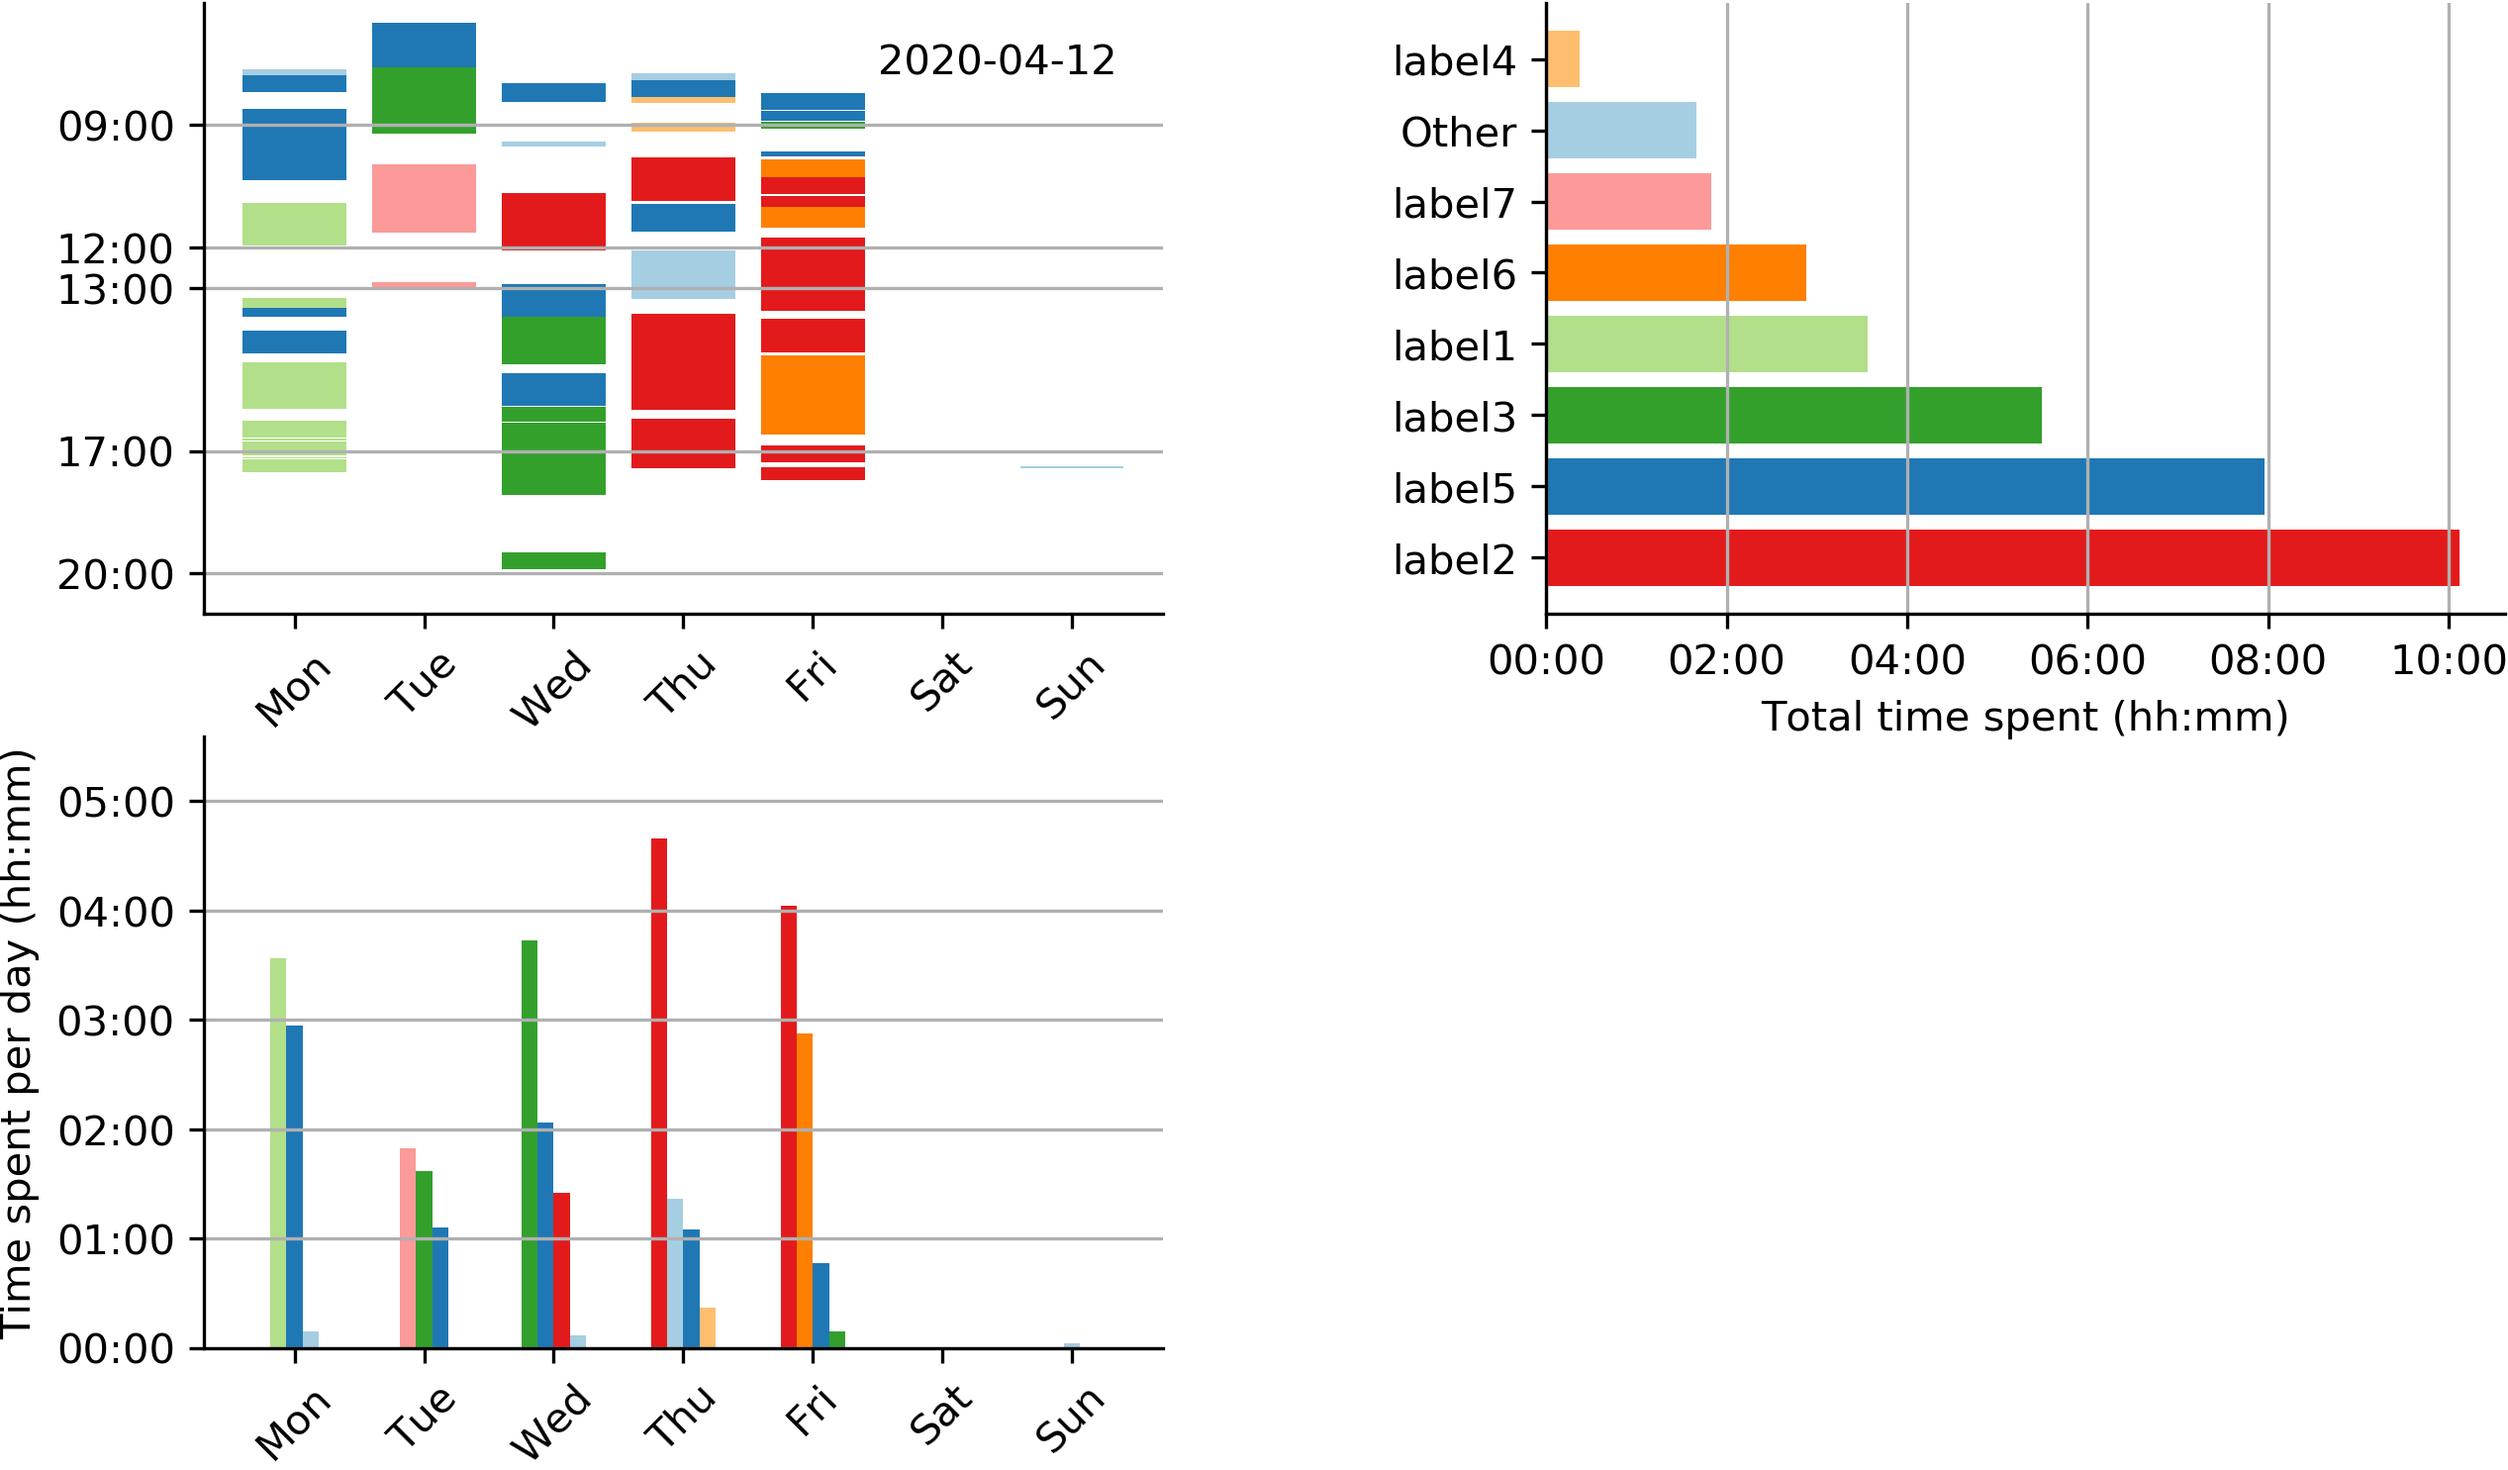
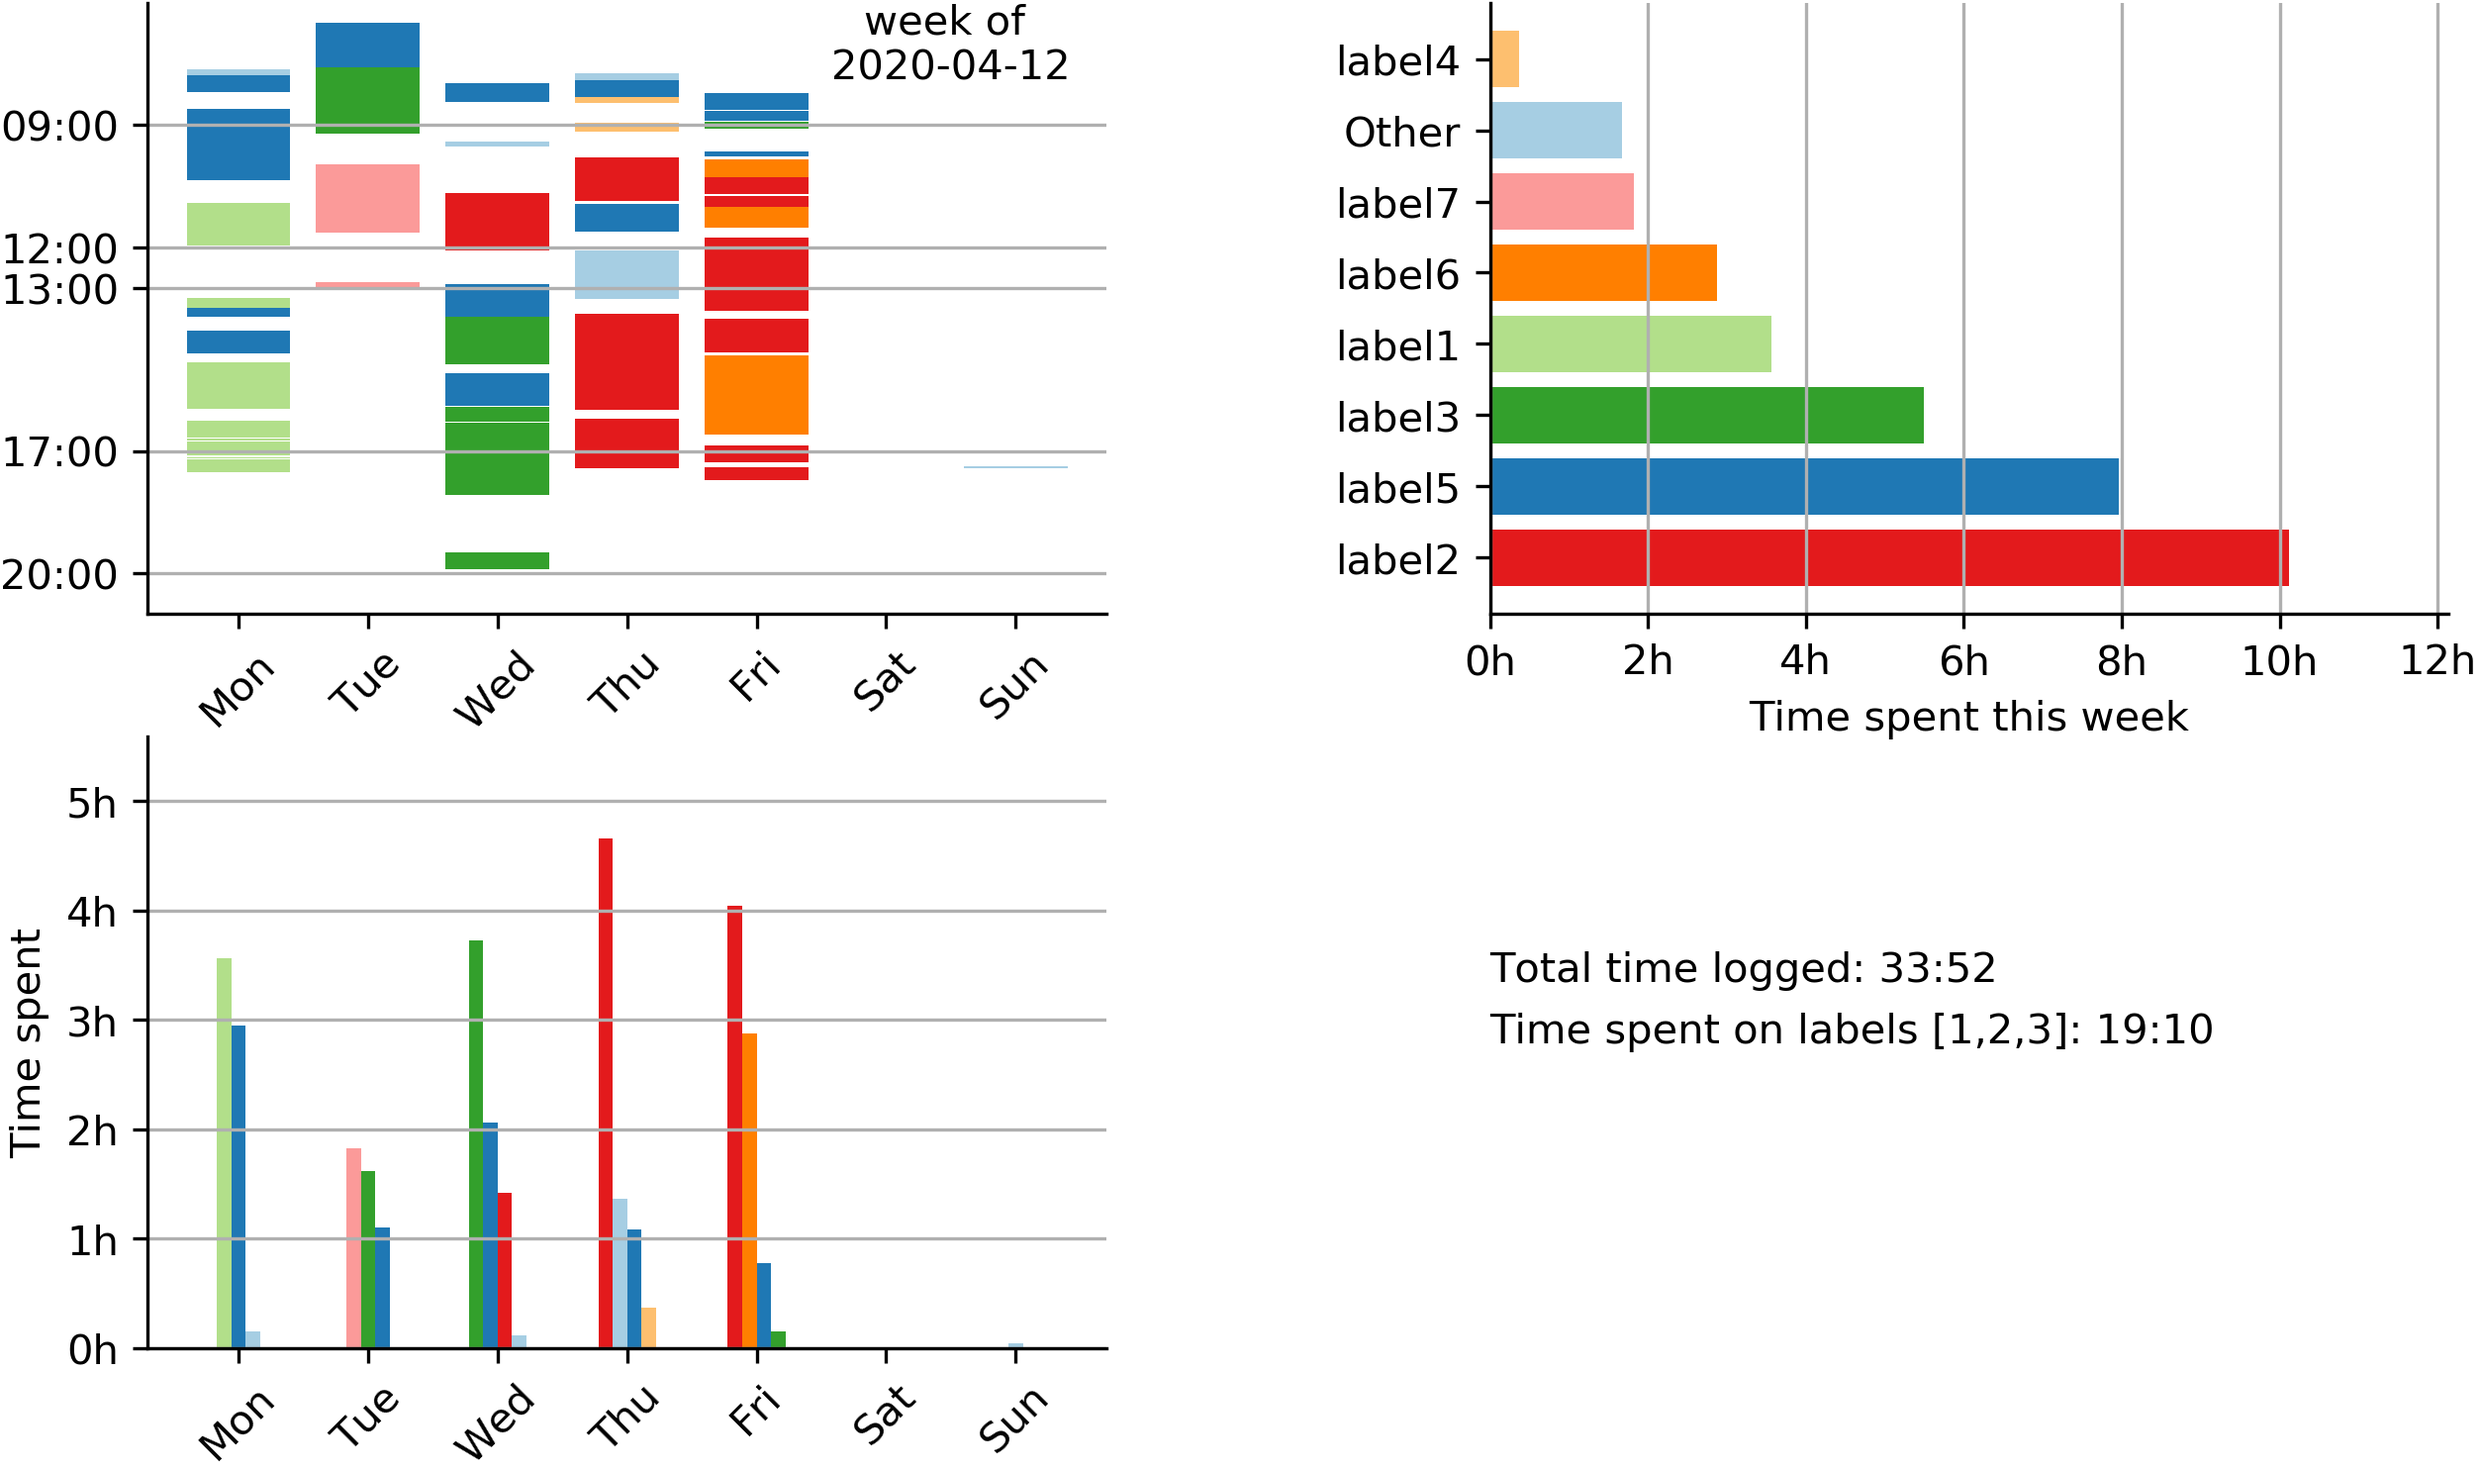
add summary text to week visualization

diff --git a/analyze_log_functions.py b/analyze_log_functions.py
@@ -17,13 +17,16 @@ def tick(x,pos):
     days = ["Mon", "Tue", "Wed", "Thu", "Fri", "Sat", "Sun"]
     return days[int(x)]  
     
-def hours_to_hhmm( arr ): 
+def hours_to_hhmm( arr, bool_h = False): 
     out_list = []
-    for val in arr:
-        if val< 10:
-            test = '0' + str(val) +':00'
-        else:
-            test = str(val) + ':00'
+    for val in arr: 
+        if bool_h:
+            test = str(val)+'h'
+        else: 
+            if val< 10:
+                test = '0'+str(val)+':00'
+            else:
+                test = str(val) + ':00'
         out_list.append(test)
     return( out_list ) 
  
@@ -62,7 +65,8 @@ def plot_week_tasks( ax_pl, df_week, label_dict, bool_legend=False ):
     ax_pl.invert_yaxis()
     hours = np.array([9,12,13,17,20])
     ax_pl.yaxis.set_ticks( hours*3600)
-    ax_pl.yaxis.set_ticklabels( hours_to_hhmm(hours ) )
+    ax_pl.yaxis.set_ticklabels( hours_to_hhmm(hours) )
+    # ax_pl.yaxis.set_ticklabels( hours )
     ax_pl.yaxis.grid('on')
  
     # remove spines 
@@ -80,9 +84,9 @@ def plot_week_tasks( ax_pl, df_week, label_dict, bool_legend=False ):
     
     bbox_props = dict(boxstyle="round,pad=0.1", fc="w", ec="w", lw=2, alpha = 0.5) 
 #     ax_pl.annotate( mon_day.date(), (mon_day,7*3600), 
-    ax_pl.annotate( mon_day.date(), (mon_day+ datetime.timedelta(5),7*3600), 
-                   va='top',ha='left' ,
-                   bbox={'boxstyle':"round,pad=0.1", 'fc':"w",'ec':'w', 'alpha':0.9})
+    ax_pl.annotate( 'week of \n' + str(mon_day.date()), (mon_day+ datetime.timedelta(6),6*3600), 
+                   va='top',ha='center' ,
+                   bbox={'boxstyle':"round,pad=0.1", 'fc':"w",'ec':'w', 'alpha':0.9}) 
     
     
 def plot_time_spent_weekly(ax_pl,df_pl, label_dict, bool_legend=False): 
@@ -97,12 +101,21 @@ def plot_time_spent_weekly(ax_pl,df_pl, label_dict, bool_legend=False):
         col_list.append( label_dict[key] ) 
 
     ax_pl.barh( df_pl.index, df_pl['Duration (s)'],color=col_list )
+ 
 
-    hours = np.array([0,2,4,6,8,10])
-    ax_pl.xaxis.set_ticks( hours*3600)
-    ax_pl.xaxis.set_ticklabels( hours_to_hhmm(hours ) )
-    ax_pl.set_xlabel('Total time spent (hh:mm)') 
+    x_max = df_pl['Duration (s)'].max() 
+  
+    n_ticks = 7
+    x_max_ceil = np.ceil(x_max/3600/(n_ticks-1)) * 3600 * (n_ticks-1)
+    # x_max_ceil = (np.floor_divide(x_max, 3600*4)+1)*3600*4
 
+    ticks =   np.int64( np.linspace(0,x_max_ceil,n_ticks) )
+
+    ax_pl.xaxis.set_ticks( ticks)
+    ax_pl.xaxis.set_ticklabels( hours_to_hhmm( np.int64(ticks/3600), bool_h=True ) )
+    ax_pl.set_xlabel('Time spent this week') 
+
+    ax_pl.set_xlim([0,x_max_ceil +500])
     # remove spines 
     ax_pl.spines['top'].set_visible(False)
     ax_pl.spines['right'].set_visible(False) 
@@ -166,9 +179,10 @@ def plot_time_spent_daily( ax_pl, df_week, label_dict, bool_legend=False):
         tick.set_rotation( 45 )
 
     # # set yaxis ticks  
-    hours = np.array([0,1,2,3,4,5,6,7,8 ])
+    # hours = np.array([0,1,2,3,4,5,6,7,8 ])
+    hours = np.arange(0,10,1)
     ax_pl.yaxis.set_ticks( hours*3600)
-    ax_pl.yaxis.set_ticklabels( hours_to_hhmm(hours ) )
+    ax_pl.yaxis.set_ticklabels( hours_to_hhmm(hours, bool_h=True))
     ax_pl.yaxis.grid('on')
     
     # # set xlim 
@@ -186,10 +200,43 @@ def plot_time_spent_daily( ax_pl, df_week, label_dict, bool_legend=False):
     # set background transparent for when graphs overlap slightly 
     ax_pl.patch.set_visible(False)
      
-    ax_pl.set_ylabel('Time spent per day (hh:mm)')
+    ax_pl.set_ylabel('Time spent')
  
     if bool_legend:
         handles, labels = ax_pl.get_legend_handles_labels()
         by_label = dict(zip(labels, handles))
         ax_pl.legend(by_label.values(), by_label.keys(), loc='center left', bbox_to_anchor=(1, 0.5) )
-  
+
+
+def sec_to_hhmm(sec):
+
+    hours = np.floor_divide(sec,3600) 
+    mins =  np.int64( (sec-hours*3600)/ 60)
+
+    if mins <10:
+        min_str = '0'+ str(mins)
+    else:
+        min_str = str(mins)
+
+    hhmm_text = str(hours) + ':' + min_str 
+
+    return hhmm_text
+
+def plot_week_text( ax_pl, df_week, select_labels=None, selected_text='' ): 
+    time_spent = sec_to_hhmm( df_week['Duration (s)'].sum())
+    ax_pl.annotate('Total time logged (h:m): ' + time_spent ,[0,.6]) 
+
+    if select_labels: 
+        if isinstance(select_labels, str):
+            print('is string') 
+            search_labels = [select_labels] 
+        elif isinstance(select_labels, list): 
+            search_labels = '|'.join(select_labels)
+ 
+        bool_labels = df_week['Label'].str.contains(search_labels)
+        df_week.loc[bool_labels,'Duration (s)'].sum()
+
+        time_spent = sec_to_hhmm( df_week.loc[bool_labels,'Duration (s)'].sum())
+        ax_pl.annotate( selected_text +': ' + time_spent ,[0,.5]) 
+
+    ax_pl.axis('off')

diff --git a/analyze_task_log.py b/analyze_task_log.py
@@ -51,9 +51,9 @@ fig, ax = plt.subplots(2, 2, squeeze=False, figsize =(10,5))
 alf.plot_week_tasks( ax[0,0], df, label_dict ) 
 alf.plot_time_spent_weekly(ax[0,1], df, label_dict  )
 alf.plot_time_spent_daily( ax[1,0], df, label_dict  ) 
+alf.plot_week_text(ax[1,1], df, ['Flex pendulum','FEA wing','Lab business', 'FF timing pend'], 'Time worked')
   
 # adjust layout 
-plt.subplots_adjust(left=None, bottom=None, right=None, top=None, wspace=.4, hspace=None) 
-ax[1,1].axes.remove() # remove unused lower right subplot 
+plt.subplots_adjust(left=None, bottom=None, right=None, top=None, wspace=.4, hspace=None)  
 
 plt.show() 

diff --git a/README.md b/README.md
@@ -12,7 +12,7 @@ Timer behavior:
 
 Screenshot of the task timer| The jupyter notebook visualization of weekly data
 :-------------------------:|:-------------------------:
-<img src="./figs/task_timer_example.png" alt="drawing" style="width:300px;"/>|      <img src="./figs/week_analysis.png" alt="drawing" style="width:500px;"/>
+<img src="./figs/task_timer_example.png" alt="drawing" style="width:300px;"/>|      <mimg src="./figs/week_analysis.png" alt="drawing" style="width:500px;"/>
 
 ## Background
 The timer GUI is based on PyQt5. The executable version is built using pyinstaller, though it currently takes up over 30 Mb (and needs to be in the same folder as the Task_timer.py file?).
